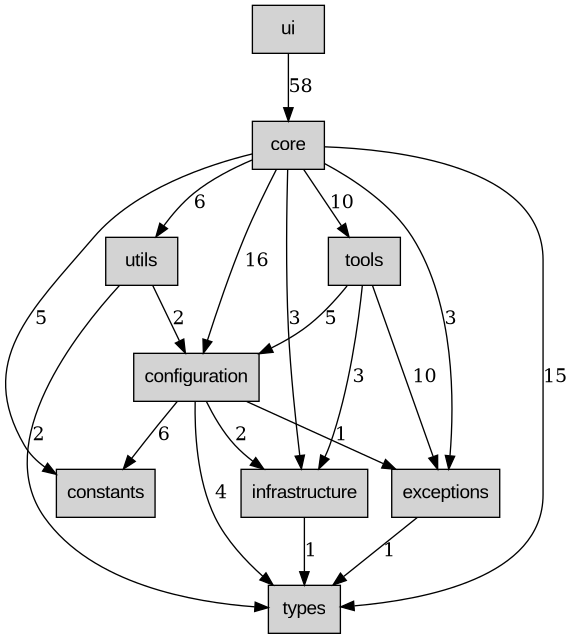
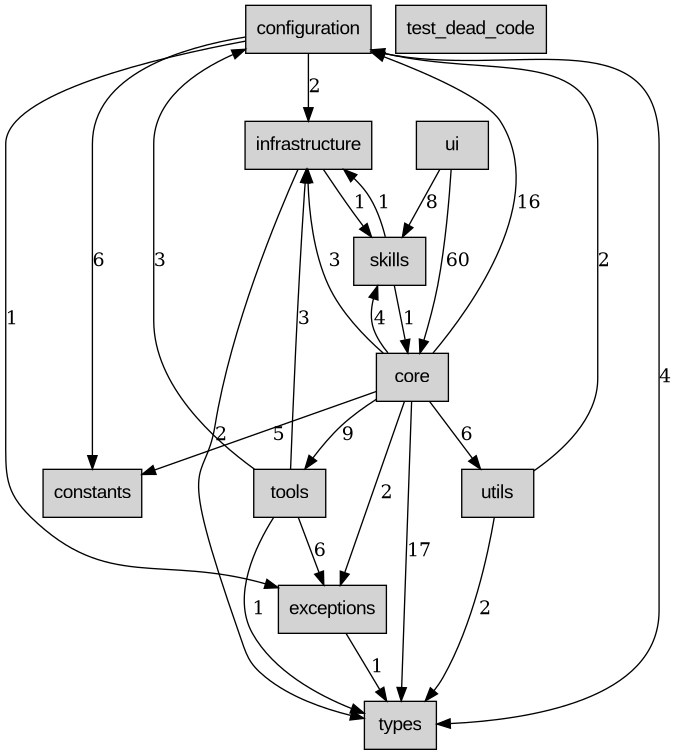
chore: update dependency map [skip ci]

diff --git a/docs/architecture/dependencies/DEPENDENCY_LAYERS.md b/docs/architecture/dependencies/DEPENDENCY_LAYERS.md
@@ -1,19 +1,21 @@
 # Dependency Layers
 
-Generated: 2026-02-15
+Generated: 2026-03-07
 
 ## Layer Order (topological)
 
 ```
-ui
-core
-tools
-utils
 configuration
 constants
+core
 exceptions
 infrastructure
+skills
+test_dead_code
+tools
 types
+ui
+utils
 ```
 
 ## Layer-to-Layer Imports
@@ -26,16 +28,22 @@ types
 | configuration | types | 4 |
 | core | configuration | 16 |
 | core | constants | 5 |
-| core | exceptions | 3 |
+| core | exceptions | 2 |
 | core | infrastructure | 3 |
-| core | tools | 10 |
-| core | types | 15 |
+| core | skills | 4 |
+| core | tools | 9 |
+| core | types | 17 |
 | core | utils | 6 |
 | exceptions | types | 1 |
-| infrastructure | types | 1 |
-| tools | configuration | 5 |
-| tools | exceptions | 10 |
+| infrastructure | skills | 1 |
+| infrastructure | types | 2 |
+| skills | core | 1 |
+| skills | infrastructure | 1 |
+| tools | configuration | 3 |
+| tools | exceptions | 6 |
 | tools | infrastructure | 3 |
-| ui | core | 58 |
+| tools | types | 1 |
+| ui | core | 60 |
+| ui | skills | 8 |
 | utils | configuration | 2 |
 | utils | types | 2 |
